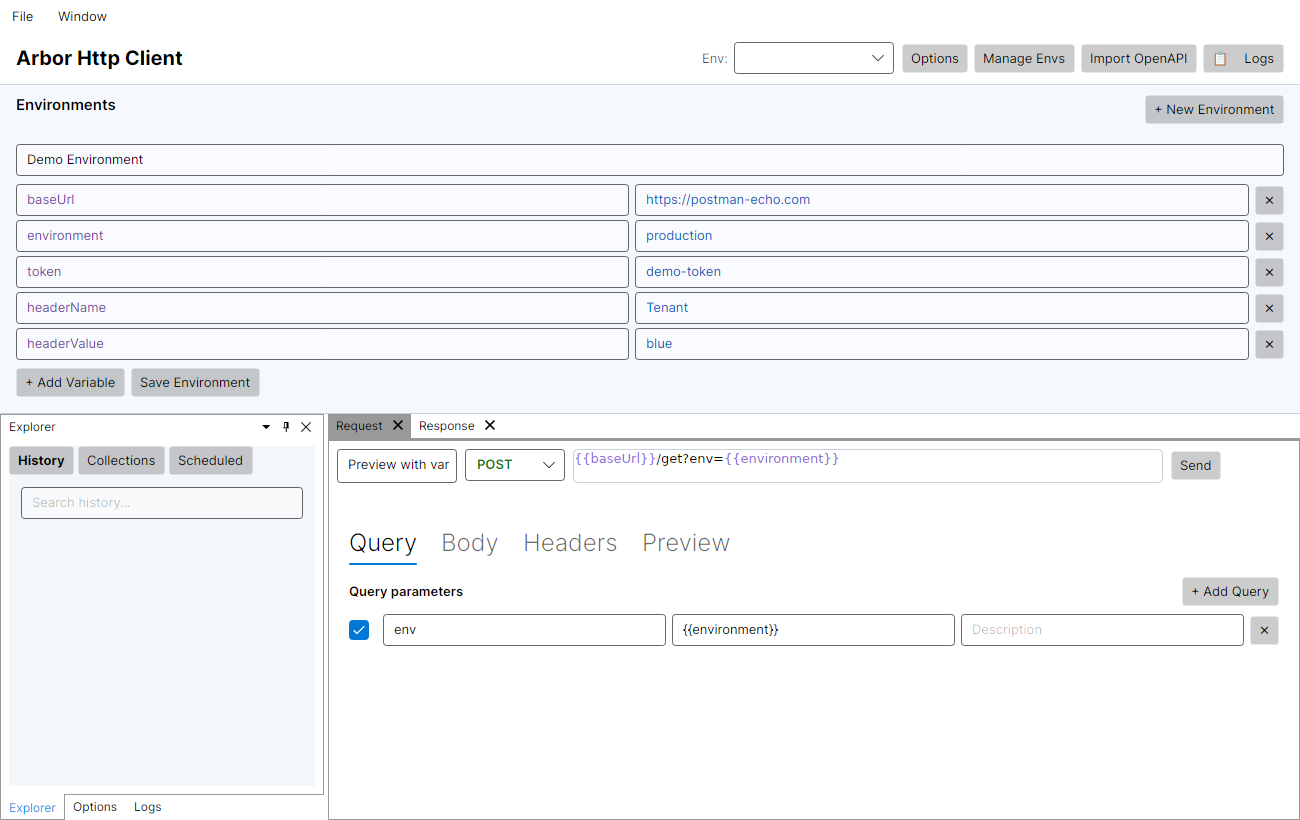
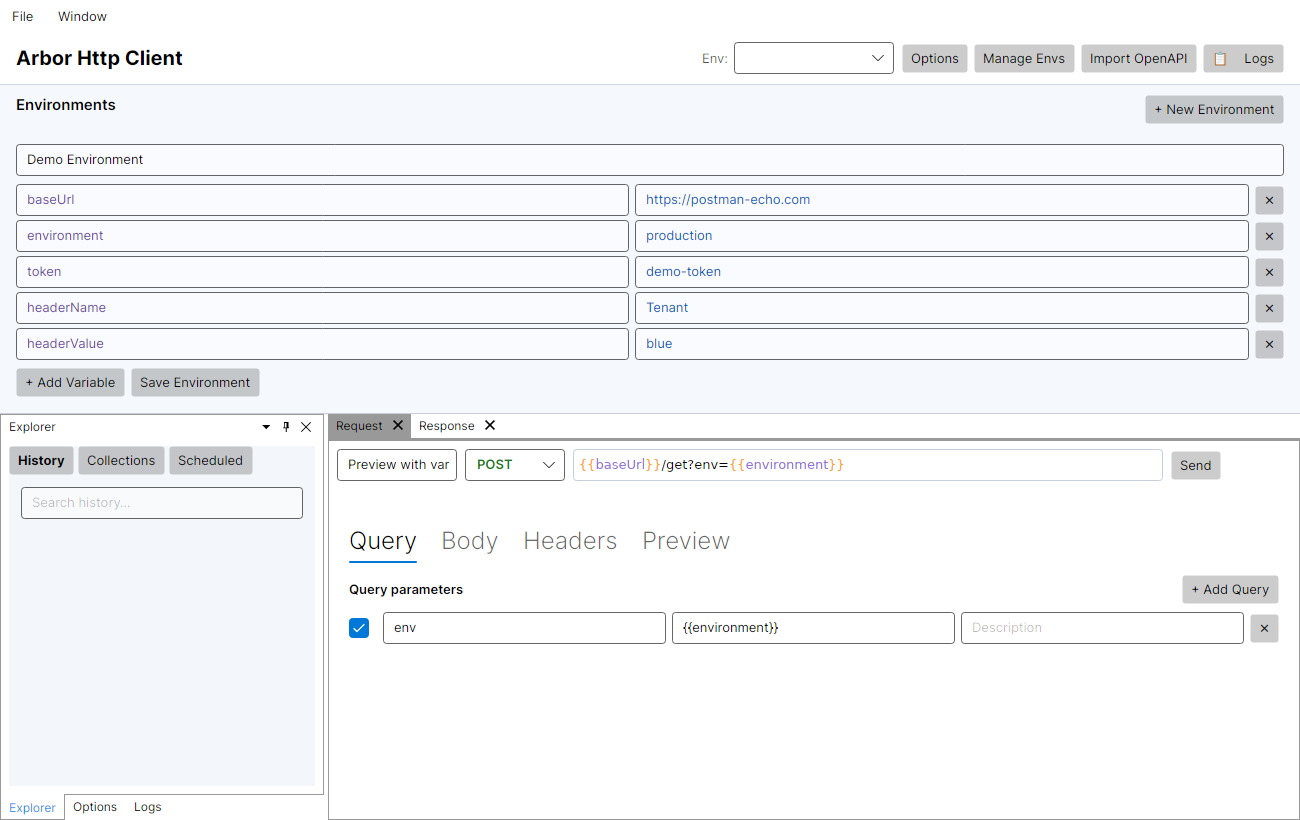
Two-colour variable highlighting, URL bar TextBox parity, UI consistency rule
Agent-Logs-Url: https://github.com/niklaslundberg/Arbor.HttpClient/sessions/120a14ff-6f72-4bf9-a8bd-1b1a2a3f6fde

diff --git a/src/Arbor.HttpClient.Desktop.E2E.Tests/AccessibilityContrastTests.cs b/src/Arbor.HttpClient.Desktop.E2E.Tests/AccessibilityContrastTests.cs
@@ -35,6 +35,14 @@ public class AccessibilityContrastTests
     private const string DarkMethodFallback = "#F5F5F5";
     private const string DarkError = "#FF6347";
 
+    // ─── Dark-theme variable token colors ────────────────────────────────────
+
+    // VariableBracketBrush (amber): same value as MethodPutBrush – already verified above.
+    private const string DarkVariableBracket = "#FFB74D";
+
+    // VariableNameBrush (violet): same value as MethodPatchBrush – already verified above.
+    private const string DarkVariableName = "#CE93D8";
+
     // ─── Light-theme backgrounds ─────────────────────────────────────────────
 
     private const string LightSurface = "#FFFFFF";
@@ -59,6 +67,14 @@ public class AccessibilityContrastTests
     private const string LightMethodFallback = "#1F2328";
     private const string LightError = "#B42318";
 
+    // ─── Light-theme variable token colors ───────────────────────────────────
+
+    // VariableBracketBrush (amber): same value as MethodPutBrush – already verified above.
+    private const string LightVariableBracket = "#875F09";
+
+    // VariableNameBrush (violet): same value as MethodPatchBrush – already verified above.
+    private const string LightVariableName = "#744DA9";
+
     // WCAG AA minimum for normal text (≥ 4.5:1).
     // Method labels are bold, so 3:1 (large-text AA) would suffice, but 4.5:1 is used for safety.
     private const double MinContrastRatio = 4.5;
@@ -81,6 +97,10 @@ public class AccessibilityContrastTests
     [InlineData(DarkError, DarkSurface, "Error / dark surface")]
     [InlineData(DarkError, DarkPanel, "Error / dark panel")]
     [InlineData(DarkDefaultText, DarkSecondaryPanel, "Default text / dark secondary panel")]
+    [InlineData(DarkVariableBracket, DarkSurface, "Variable bracket / dark surface")]
+    [InlineData(DarkVariableBracket, DarkPanel, "Variable bracket / dark panel")]
+    [InlineData(DarkVariableName, DarkSurface, "Variable name / dark surface")]
+    [InlineData(DarkVariableName, DarkPanel, "Variable name / dark panel")]
     public void DarkTheme_ColorPair_MeetsWcagAA(string foreground, string background, string label)
     {
         var ratio = ContrastRatio(foreground, background);
@@ -106,6 +126,10 @@ public class AccessibilityContrastTests
     [InlineData(LightError, LightSurface, "Error / light surface")]
     [InlineData(LightError, LightPanel, "Error / light panel")]
     [InlineData(LightDefaultText, LightSecondaryPanel, "Default text / light secondary panel")]
+    [InlineData(LightVariableBracket, LightSurface, "Variable bracket / light surface")]
+    [InlineData(LightVariableBracket, LightPanel, "Variable bracket / light panel")]
+    [InlineData(LightVariableName, LightSurface, "Variable name / light surface")]
+    [InlineData(LightVariableName, LightPanel, "Variable name / light panel")]
     public void LightTheme_ColorPair_MeetsWcagAA(string foreground, string background, string label)
     {
         var ratio = ContrastRatio(foreground, background);

diff --git a/src/Arbor.HttpClient.Desktop/Views/RequestView.axaml.cs b/src/Arbor.HttpClient.Desktop/Views/RequestView.axaml.cs
@@ -1,12 +1,9 @@
-using System.Text.RegularExpressions;
 using Avalonia;
 using Avalonia.Controls;
 using Avalonia.Media;
 using Avalonia.Styling;
 using Arbor.HttpClient.Desktop.ViewModels;
 using AvaloniaEdit;
-using AvaloniaEdit.Document;
-using AvaloniaEdit.Rendering;
 using AvaloniaEdit.TextMate;
 using TextMateSharp.Grammars;
 
@@ -87,6 +84,7 @@ public partial class RequestView : UserControl
 
         if (_requestUrlEditor is not null)
         {
+            _requestUrlEditor.TextArea.Background = Brushes.Transparent;
             _requestUrlEditor.Document.TextChanged += OnRequestUrlEditorTextChanged;
             if (!_requestUrlEditor.TextArea.TextView.LineTransformers.Contains(_urlVariableColorizer))
             {
@@ -336,16 +334,23 @@ public partial class RequestView : UserControl
 
     private void ApplyVariableColorTheme()
     {
-        IBrush brush = Brushes.MediumPurple;
-        if (Application.Current?.TryGetResource("MethodPatchBrush", out var resource) == true &&
-            resource is IBrush resourceBrush)
+        IBrush bracketBrush = Brushes.Orange;
+        if (Application.Current?.TryGetResource("VariableBracketBrush", out var bracketResource) == true &&
+            bracketResource is IBrush b)
         {
-            brush = resourceBrush;
+            bracketBrush = b;
         }
 
-        _urlVariableColorizer.SetForeground(brush);
-        _bodyVariableColorizer.SetForeground(brush);
-        _previewVariableColorizer.SetForeground(brush);
+        IBrush nameBrush = Brushes.MediumPurple;
+        if (Application.Current?.TryGetResource("VariableNameBrush", out var nameResource) == true &&
+            nameResource is IBrush n)
+        {
+            nameBrush = n;
+        }
+
+        _urlVariableColorizer.SetBrushes(bracketBrush, nameBrush);
+        _bodyVariableColorizer.SetBrushes(bracketBrush, nameBrush);
+        _previewVariableColorizer.SetBrushes(bracketBrush, nameBrush);
 
         _requestUrlEditor?.TextArea.TextView.Redraw();
         _requestBodyEditor?.TextArea.TextView.Redraw();
@@ -367,29 +372,6 @@ public partial class RequestView : UserControl
         }
 
         _requestTextMate.SetTheme(theme);
-    }
-
-    private sealed partial class VariableTokenColorizer : DocumentColorizingTransformer
-    {
-        [GeneratedRegex(@"\{\{[^}]+\}\}", RegexOptions.Compiled)]
-        private static partial Regex VariableTokenRegex();
-
-        private IBrush _foreground = Brushes.MediumPurple;
-
-        public void SetForeground(IBrush foreground) => _foreground = foreground;
-
-        protected override void ColorizeLine(DocumentLine line)
-        {
-            var lineText = CurrentContext.Document.GetText(line);
-            foreach (Match match in VariableTokenRegex().Matches(lineText))
-            {
-                var startOffset = line.Offset + match.Index;
-                var endOffset = startOffset + match.Length;
-
-                ChangeLinePart(startOffset, endOffset, element =>
-                    element.TextRunProperties.SetForegroundBrush(_foreground));
-            }
-        }
     }
 }
 

diff --git a/src/Arbor.HttpClient.Desktop/Views/VariableTokenColorizer.cs b/src/Arbor.HttpClient.Desktop/Views/VariableTokenColorizer.cs
@@ -6,27 +6,43 @@ using AvaloniaEdit.Rendering;
 namespace Arbor.HttpClient.Desktop.Views;
 
 /// <summary>
-/// Colors <c>{{variableName}}</c> tokens with the configured foreground brush.
+/// Colors <c>{{variableName}}</c> tokens with two distinct brushes:
+/// one for the <c>{{</c> and <c>}}</c> brackets and another for the name between them.
 /// </summary>
 internal sealed partial class VariableTokenColorizer : DocumentColorizingTransformer
 {
-    [GeneratedRegex(@"\{\{[^}]+\}\}", RegexOptions.Compiled)]
+    // Capture groups: (1) opening bracket, (2) variable name, (3) closing bracket
+    [GeneratedRegex(@"(\{\{)([^}]+)(\}\})", RegexOptions.Compiled)]
     private static partial Regex VariableTokenRegex();
 
-    private IBrush _foreground = Brushes.MediumPurple;
+    private IBrush _bracketBrush = Brushes.Orange;
+    private IBrush _nameBrush = Brushes.MediumPurple;
 
-    public void SetForeground(IBrush foreground) => _foreground = foreground;
+    public void SetBrushes(IBrush bracketBrush, IBrush nameBrush)
+    {
+        _bracketBrush = bracketBrush;
+        _nameBrush = nameBrush;
+    }
 
     protected override void ColorizeLine(DocumentLine line)
     {
         var lineText = CurrentContext.Document.GetText(line);
         foreach (Match match in VariableTokenRegex().Matches(lineText))
         {
-            var startOffset = line.Offset + match.Index;
-            var endOffset = startOffset + match.Length;
-
-            ChangeLinePart(startOffset, endOffset, element =>
-                element.TextRunProperties.SetForegroundBrush(_foreground));
+            // Group 1: {{ — opening bracket
+            ColorGroup(line, match.Groups[1], _bracketBrush);
+            // Group 2: variable name
+            ColorGroup(line, match.Groups[2], _nameBrush);
+            // Group 3: }} — closing bracket
+            ColorGroup(line, match.Groups[3], _bracketBrush);
         }
+    }
+
+    private void ColorGroup(DocumentLine line, Group group, IBrush brush)
+    {
+        var start = line.Offset + group.Index;
+        var end = start + group.Length;
+        ChangeLinePart(start, end, element =>
+            element.TextRunProperties.SetForegroundBrush(brush));
     }
 }

diff --git a/.github/copilot-instructions.md b/.github/copilot-instructions.md
@@ -208,7 +208,21 @@ Before merging any PR that touches UI code or theme resources:
 - [ ] Interactive elements remain keyboard-accessible (Tab, Enter/Space, arrow keys where applicable).
 - [ ] No purely visual text label has been replaced by an icon without an accessible name.
 
-## Central Package Management
+## UI Consistency
+
+All text-input controls must have a consistent look and feel that matches the Avalonia Fluent theme.
+
+- **Text inputs that replace a standard `TextBox`** (e.g. `AvaloniaEdit.TextEditor` used for variable highlighting in the URL bar) must match the Fluent `TextBox` visual metrics:
+  - `Padding="5,6,5,6"` to align text at the same vertical position as a `TextBox` (effective centering for the default 13 px font in a 32 px row)
+  - `CornerRadius="3"` on the surrounding `Border` (Fluent standard)
+  - `Background` on the surrounding `Border` set to `{DynamicResource SurfaceBackgroundBrush}` so the background adapts with the active theme
+  - The inner `TextEditor` itself must be `Background="Transparent"` so the Border background is visible
+  - Scrollbars hidden (`HorizontalScrollBarVisibility="Hidden"` and `VerticalScrollBarVisibility="Hidden"`) for single-line inputs
+  - Font family and size must be explicitly propagated from the app-level `UiFontFamily`/`UiFontSize` bindings via `ApplyEditorFont`
+- **`TextBox` controls that remain as plain `TextBox`** do not need additional styling; they automatically inherit font and appearance from the Fluent theme and window-level `FontFamily`/`FontSize` bindings.
+- Never mix raw `TextEditor` controls and styled `TextBox` controls in the same row or form group without ensuring they have the same effective height and padding.
+
+
 
 All NuGet package versions are managed centrally in `Directory.Packages.props`.  
 - Always declare new packages with `<PackageVersion Include="PackageName" Version="x.y.z" />` in `Directory.Packages.props`.  
